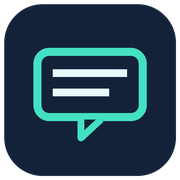
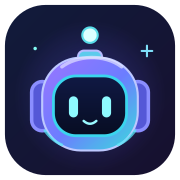
fix(omni-chat): adopt AI agent identity and repair backend unit mocks

diff --git a/api/server/services/__tests__/ToolService.spec.js b/api/server/services/__tests__/ToolService.spec.js
@@ -3236,15 +3236,6 @@ describe('ToolService - Action Capability Gating', () => {
         codeWorkspaces: [{ environmentId: 'personal-machine', workspaceId: 'project-a' }],
       };
       mockGetEndpointsConfig.mockResolvedValue(createEndpointsConfig(capabilities));
-      mockResolveCodeExecutionContext.mockReturnValueOnce({
-        baseUrl: 'http://attached-code.test/v1',
-        codeSessionKey: 'execute_code:stateful:attached',
-        executionProfile: 'stateful',
-        statefulSessions: true,
-        environmentType: 'attached',
-        environmentId: 'personal-machine',
-        bridgeWorkerId: 'worker-abc',
-      });
       mockCreateLaneGitRecorder.mockClear();
 
       await loadToolsForExecution({
@@ -3294,15 +3285,6 @@ describe('ToolService - Action Capability Gating', () => {
         codeWorkspaces: [{ environmentId: 'personal-machine', workspaceId: 'project-a' }],
       };
       mockGetEndpointsConfig.mockResolvedValue(createEndpointsConfig(capabilities));
-      mockResolveCodeExecutionContext.mockReturnValueOnce({
-        baseUrl: 'http://attached-code.test/v1',
-        codeSessionKey: 'execute_code:stateful:attached',
-        executionProfile: 'stateful',
-        statefulSessions: true,
-        environmentType: 'attached',
-        environmentId: 'personal-machine',
-        bridgeWorkerId: 'worker-abc',
-      });
       mockCreateLaneGitRecorder.mockClear();
 
       await loadToolsForExecution({
